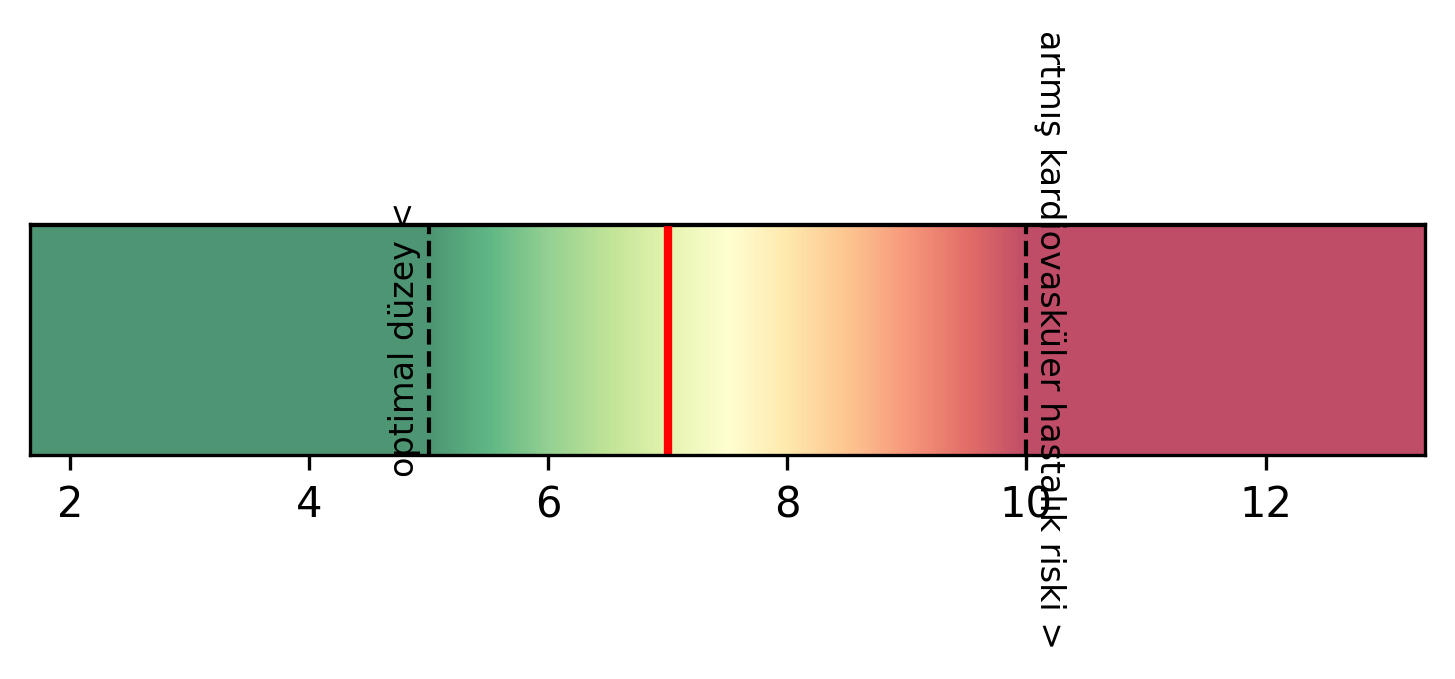
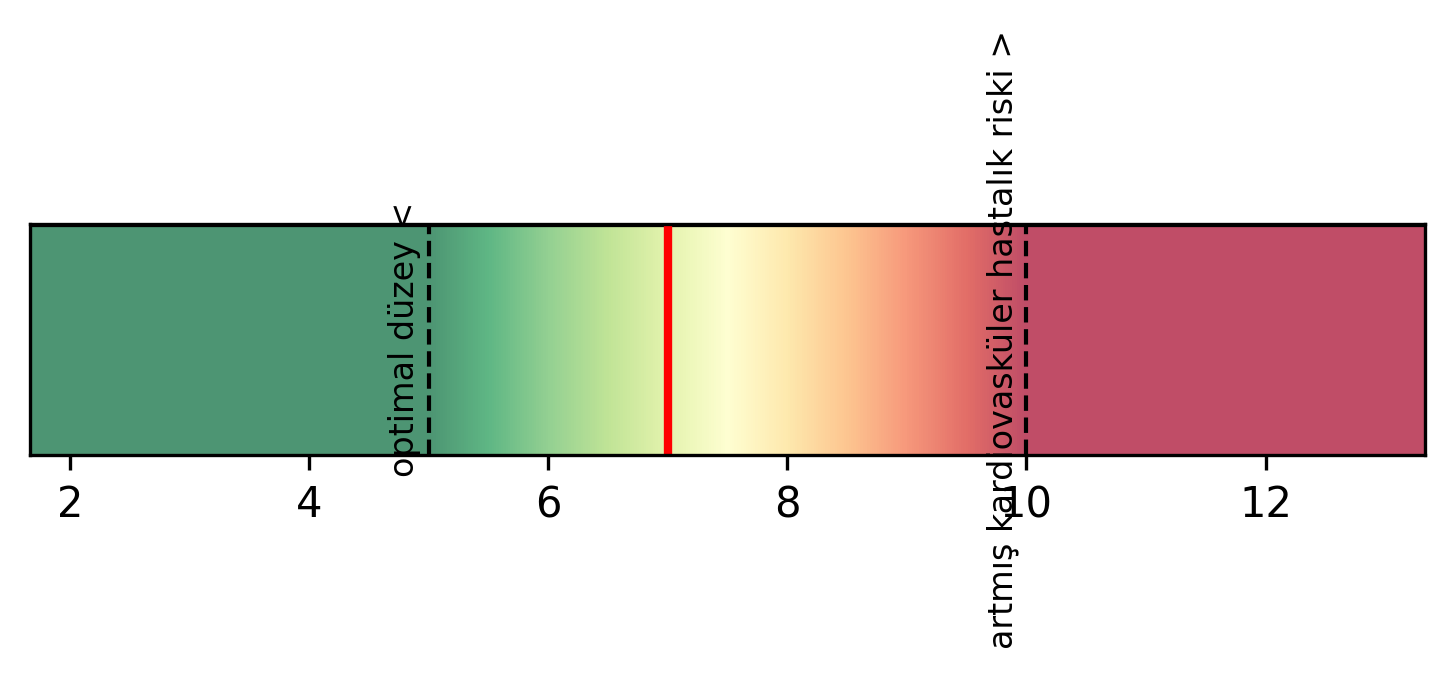
Multy done

Changed region(s): [[0.6804, 0.0309, 0.7423, 0.7732], [0.6804, 0.8041, 0.7423, 0.9588]]

diff --git a/mult_limits copy.py b/mult_limits copy.py
@@ -6,9 +6,9 @@ import numpy as np
 cmap_colors = [(0.0000001, 0.3, 0), (0.95, 0.95, 0), (5, 0, 0)]
 cmap = mcolors.LinearSegmentedColormap.from_list("custom_color_map", cmap_colors, N=1000000)
 
-def b_chart(patient, lwst, bgst, keylwst, keybgst, constant, extra_limits):
-    limits = [lwst, bgst] + list(extra_limits.values())
-    labels = [keylwst, keybgst] + list(extra_limits.keys())
+def b_chart(patient, lwst, bgst, keylwst, keybgst, constant, *extra_limits,):
+    limits = [lwst, bgst] + list(remaining_limits.values())
+    labels = [keylwst, keybgst] + list(remaining_limits.keys())
     x_min = min(lwst, bgst) - constant
     x_max = max(lwst, bgst) + constant
 
@@ -20,6 +20,7 @@ def b_chart(patient, lwst, bgst, keylwst, keybgst, constant, extra_limits):
     x = np.linspace(x_min, x_max, 1000)
     y = np.ones(1000)
     
+
     range_values = np.where(x <= lwst, 0, np.where(x > bgst, 1, (x - lwst) / (bgst - lwst)))
     range_values = range_values.reshape(1, -1)
 
@@ -28,14 +29,36 @@ def b_chart(patient, lwst, bgst, keylwst, keybgst, constant, extra_limits):
     plt.plot(x, y, color='black')
     plt.gca().get_yaxis().set_visible(False)
 
-    for limit, label in zip(limits, labels):
+""" limits = [lwst, bgst]
+    tick_labels = [keylwst, keybgst]"""
+
+
+
+    #bars = [(patient,bgst-patient), (lwst, bgst - lwst)]
+
+"""    for extra in extra_limits:
+        for values in extra.values():
+            #bars = bars + [(values, bgst-values)]
+            limits = limits + values"""
+
+    for limit, label in zip(limits, tick_labels):
         plt.axvline(x=limit, color='black', linestyle='--', linewidth=1)
         plt.text(limit - 0.2, 0.5, label, rotation=90, ha='center', va='center', fontsize=8)
+ """       if limit == lwst:
+            plt.text(limit - 0.2, 0.5, label, rotation=90, ha='center', va='center', fontsize=8)
+        elif limit == bgst:
+            plt.text(limit + 0.2, 0.5, label, rotation=-90, ha='center', va='center', fontsize=8)"""
 
-    # Constant value
-    custom_value = max(x_min, min(patient, x_max))
-    plt.axvline(x=custom_value, color='red', linestyle='-', linewidth=2)
+    ax.broken_barh(bars, (0, 1), facecolors="None")
+    
+    x_ticks = [lwst, bgst, patient] + [values for values in (values for extra in extra_limits for values in extra.values())]
+    x_labels = [keylwst, keybgst, str(patient)] + [f"{limit}" for limit in (values for extra in extra_limits for values in extra.values())]
 
+    ax.set_xticks(x_ticks)
+    ax.set_xticklabels(x_labels, rotation="vertical")
+    
+    #ax.imshow(np.arange(0, lwst + bgst + 1).reshape(1, -1), cmap=cmap, aspect='auto', extent=[0, lwst + bgst, 0, 1])
+    
     plt.grid(False)
     return fig
 

diff --git a/two_limits.py b/two_limits.py
@@ -31,10 +31,8 @@ def two_limits(patient, lwst, bgst, keylwst, keybgst, constant):
 
     for limit, label in zip(limits, tick_labels):
         plt.axvline(x=limit, color='black', linestyle='--', linewidth=1)
-        if limit == lwst:
-            plt.text(limit - 0.2, 0.5, label, rotation=90, ha='center', va='center', fontsize=8)
-        else:
-            plt.text(limit + 0.2, 0.5, label, rotation=-90, ha='center', va='center', fontsize=8)
+        plt.text(limit - 0.2, 0.5, label, rotation=90, ha='center', va='center', fontsize=8)
+
 
     # Constant value
     custom_value = max(x_min, min(patient, x_max))

diff --git a/one_limit.py b/one_limit.py
@@ -25,8 +25,6 @@ def one_limit(patient, ref, keylwst, keybgst, constant):
 
     plt.gca().get_yaxis().set_visible(False)
 
-    tick_labels = [keylwst, keybgst]
-
     plt.axvline(x=ref, color='black', linestyle='--', linewidth=1)
 
     plt.text(ref - 3, 0.5, keylwst, rotation=90, ha='center', va='center', fontsize=8)
